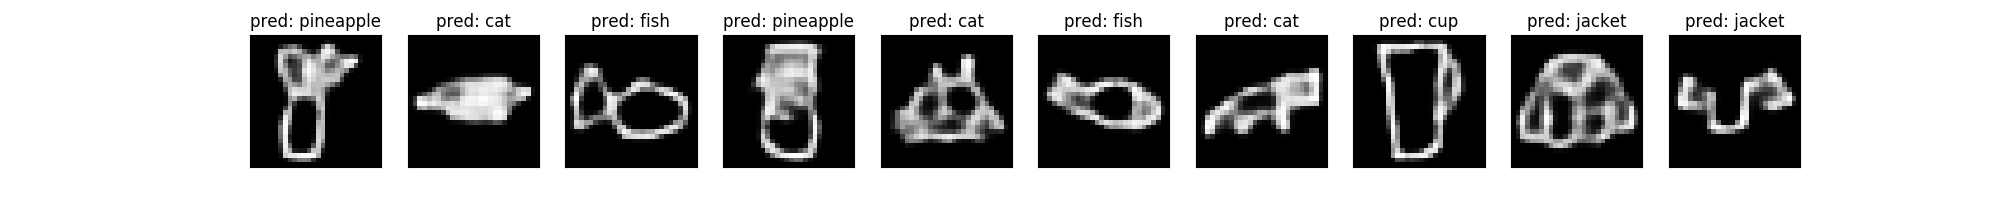
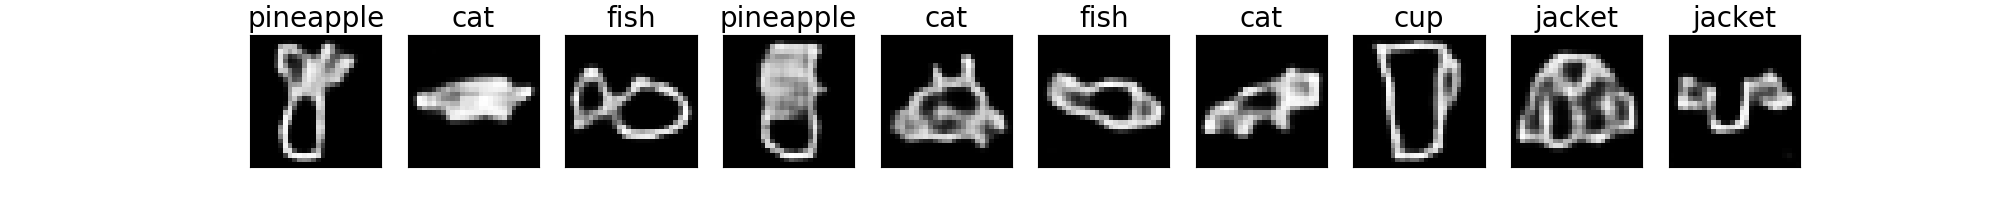
update

diff --git a/QuickDraw_noisy_classifier.py b/QuickDraw_noisy_classifier.py
@@ -354,7 +354,7 @@ def plot_labeled_images_random(image_list, label_list, categories, n, title_str,
         ax = plt.subplot(1, n, i + 1)
         plt.imshow(image_list[ind].reshape(ypixels, xpixels))
         plt.gray()
-        ax.set_title("pred: " + categories[label_list[ind]])
+        ax.set_title(categories[label_list[ind]], fontsize=20)
         ax.get_xaxis().set_visible(False); ax.get_yaxis().set_visible(False)
     if 1:
         pylab.savefig(filename)
